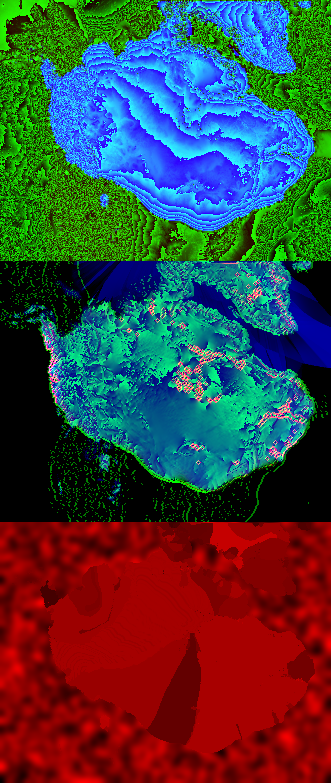
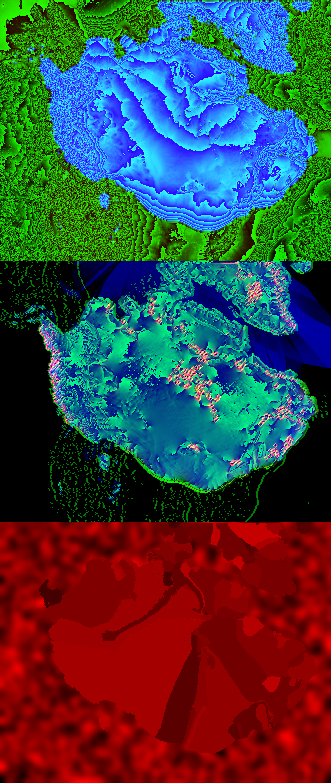
Thick glaciers: slower basal sliding, glacier threshold, fresh-run fit, mapped mode
Ice slid about 30 times too fast, which drained slopes to a film: over half of
the Lost River 'glacier' area was under 30 m thick. Sliding is now slow, and
only ice thicker than 20 m counts as glacier in the fit, the score and the
export. The fit grows the ice from nothing in every iteration, as a run does.

New option --mapped fills the mapped extent with ice instead of predicting it.
All regions refitted and rerun; demo rebuilt.

diff --git a/docs/index.html b/docs/index.html
@@ -445,7 +445,7 @@
       if (fly) map.fitBounds([r.bounds.slice(0, 2), r.bounds.slice(2)], { pitch: 60, bearing: 30, padding: 40, duration: 2500 })
       $('region-name').textContent = r.name.replace('_', ' ')
       $('details').innerHTML =
-        row('Climate', `PMIP4 LGM${r.corrected ? ', fitted to mapped ice' : ''}`) +
+        row('Climate', `PMIP4 LGM${r.mapped ? ', tied to mapped ice' : r.corrected ? ', fitted to mapped ice' : ''}`) +
         row('Ice', `${r.ice_km2.toLocaleString()} km²`) + row('Thickest', `${r.max_ice_m.toLocaleString()} m`) +
         row('Mapped (field evidence)', `${r.mapped_km2.toLocaleString()} km²`) +
         row('Overlap with mapped', `${Math.round(r.iou * 100)}%`) + row('Grid', `${r.dx / 1000} km`)

diff --git a/web/index.html b/web/index.html
@@ -445,7 +445,7 @@
       if (fly) map.fitBounds([r.bounds.slice(0, 2), r.bounds.slice(2)], { pitch: 60, bearing: 30, padding: 40, duration: 2500 })
       $('region-name').textContent = r.name.replace('_', ' ')
       $('details').innerHTML =
-        row('Climate', `PMIP4 LGM${r.corrected ? ', fitted to mapped ice' : ''}`) +
+        row('Climate', `PMIP4 LGM${r.mapped ? ', tied to mapped ice' : r.corrected ? ', fitted to mapped ice' : ''}`) +
         row('Ice', `${r.ice_km2.toLocaleString()} km²`) + row('Thickest', `${r.max_ice_m.toLocaleString()} m`) +
         row('Mapped (field evidence)', `${r.mapped_km2.toLocaleString()} km²`) +
         row('Overlap with mapped', `${Math.round(r.iou * 100)}%`) + row('Grid', `${r.dx / 1000} km`)

diff --git a/glaciers/fit.py b/glaciers/fit.py
@@ -4,7 +4,7 @@ The climate models' LGM cooling has the wrong regional shape over the Rockies (t
 ranges, too strong near the ice sheets), so mapped glacier extents are used to correct it, as in climate
 inversions from moraines. The correction lives on a 0.5-1° lon/lat grid of control points, so it can only shift
 snowlines range by range, not draw individual glaciers. Held-out ranges are left out of the fit and test it.
-Most iterations run on coarser grids (see model.levels); the last ones on the region's own grid.
+Most iterations run on coarser grids (see model.levels); the last three on the region's own grid.
 """
 
 import argparse
@@ -13,7 +13,7 @@ import time
 import numpy as np
 from scipy.ndimage import distance_transform_edt, gaussian_filter, map_coordinates
 
-from . import model, outlines
+from . import model
 from .regions import correction_path, setup
 
 HELD_OUT = {"idaho": {"Lemhi": (-113.60, -112.80, 44.00, 44.90), "Pioneer": (-114.25, -113.60, 43.50, 43.90)},
@@ -28,14 +28,13 @@ LIMITS = (-4.0, 4.0)  # about the gap between climate models and glacier-based c
 SMOOTH = 0.5      # each iteration, blend half of the field with a smoothed copy (1 control point)
 MIN_ICE = 100.0   # per degree² of spacing: km² of weighted ice before a control point responds
 EDGE = 60e3       # ice within this distance of an inflow edge comes from outside and is not fitted (m)
-SPINUP = 3000.0   # years of growth from nothing before the first iteration
-ADJUST = 375.0    # years the ice adjusts per iteration on the region's own grid (longer on coarser ones)
+FINAL = 3         # iterations on the region's own grid, where each one costs a full run
 
 
 def main():
     p = argparse.ArgumentParser(description=__doc__.split("\n")[0])
     p.add_argument("region", choices=HELD_OUT)
-    p.add_argument("--iterations", type=int, default=8, help="at most this many per grid")
+    p.add_argument("--iterations", type=int, default=8, help="at most this many per coarser grid")
     a = p.parse_args()
 
     r = setup(a.region, use_correction=False)
@@ -43,10 +42,10 @@ def main():
     radius, min_ice = RADIUS * spacing, MIN_ICE * spacing**2
     lons = np.arange(np.floor(r["lon"].min()), np.ceil(r["lon"].max()) + spacing, spacing)
     lats = np.arange(np.floor(r["lat"].min()), np.ceil(r["lat"].max()) + spacing, spacing)
-    dT, H = np.zeros((len(lats), len(lons))), None
+    dT = np.zeros((len(lats), len(lons)))
     for bed0, (T, P, z_ref), dx, edge in model.levels(r["bed0"], r["climate"], r["dx"], r["H_edge"]):
         lon, lat, X, Y = (model.resample(v, bed0.shape) for v in (r["lon"], r["lat"], *np.meshgrid(r["x"], r["y"])))
-        mapped = model.resample(outlines.rasterize(proj, r["x"], r["y"]) * 1.0, bed0.shape) > 0.5
+        mapped = model.resample(r["mapped"] * 1.0, bed0.shape) > 0.5
         box = lambda b: (lon > b[0]) & (lon < b[1]) & (lat > b[2]) & (lat < b[3])
         skip = np.zeros(bed0.shape, bool)  # cells left out of the fit: held-out ranges and edge inflow
         for b in HELD_OUT[a.region].values():
@@ -60,15 +59,13 @@ def main():
             weights.append((k, np.exp(-d2.ravel()[k] / (2 * radius**2))))
         overlap = lambda ice, where: (ice & mapped & where).sum() / max(((ice | mapped) & where).sum(), 1)
 
-        H = None if H is None else model.refine(H, coarse, bed0)
-        coarse = bed0
-        for it in range(a.iterations):
+        for it in range(a.iterations if dx > r["dx"] else FINAL):
             t0 = time.time()
             fitted = map_coordinates(dT, [(lat - lats[0]) / spacing, (lon - lons[0]) / spacing], order=1, mode="nearest")
-            # From nothing the first time; after that the ice only has to adjust, faster on coarser grids.
-            years = SPINUP if H is None else ADJUST * dx / r["dx"]
-            H, _ = model.simulate(bed0, (T + fitted, P, z_ref), dx, years, edge, H)
-            ice = H > 1
+            # Grown from nothing every time, exactly as a run does: with ice left from colder iterations the
+            # fit would describe a state that a run never reaches.
+            H, _ = model.grow(bed0, (T + fitted, P, z_ref), dx, r["years"], edge)
+            ice = H > model.GLACIER
 
             # Update each control point from the weighted model and mapped ice areas around it.
             cell, step = dx * dx / 1e6, np.zeros_like(dT)
@@ -77,10 +74,11 @@ def main():
                 if am + ao > min_ice:
                     step.flat[n] = np.clip(GAIN * np.log((am + min_ice / 2) / (ao + min_ice / 2)), -MAX_STEP, MAX_STEP)
             old, dT = dT, np.clip((1 - SMOOTH) * (dT + step) + SMOOTH * gaussian_filter(dT + step, 1.0, mode="nearest"), *LIMITS)
+            score = overlap(ice, ~skip)
             np.savez(correction_path(a.region), lons=lons, lats=lats, dT=dT)
 
             held = "".join(f", held-out {name} {overlap(ice, box(b)):.0%}" for name, b in HELD_OUT[a.region].items())
-            print(f"{dx:.0f} m grid, iteration {it + 1}: {time.time() - t0:.0f}s, fitted-area overlap {overlap(ice, ~skip):.0%}"
+            print(f"{dx:.0f} m grid, iteration {it + 1}: {time.time() - t0:.0f}s, fitted-area overlap {score:.0%}"
                   f"{held}, correction {dT.min():+.1f}..{dT.max():+.1f} K, changed by {np.abs(dT - old).max():.2f} K", flush=True)
             if np.abs(dT - old).max() < 0.1:
                 break

diff --git a/glaciers/regions.py b/glaciers/regions.py
@@ -3,9 +3,9 @@
 from pathlib import Path
 
 import numpy as np
-from scipy.ndimage import map_coordinates
+from scipy.ndimage import distance_transform_edt, map_coordinates
 
-from . import dem, export, pmip
+from . import dem, export, outlines, pmip
 
 WEB = Path(__file__).resolve().parent.parent / "web"
 
@@ -23,6 +23,10 @@ REGIONS = {
 # lowlands there.
 PARENT = {"idaho": "north_america"}
 
+MAPPED = -4.0, 20.0   # K added inside and outside the mapped ice in mapped mode: ice fills the outlines (more
+                      # cooling adds little) and none survives outside
+MARGIN = 1500.0       # inside, the cooling builds up over this distance from the outline, so snouts thin out (m)
+
 
 def correction_path(region):
     return dem.CACHE / f"correction_{region}.npz"
@@ -38,8 +42,11 @@ def correction(region, lon, lat):
     return map_coordinates(c["dT"], rc, order=1, mode="nearest")
 
 
-def setup(region, use_correction=True):
-    """Everything a run needs: grid, bedrock, LGM climate (T, P, their elevation) and edge ice."""
+def setup(region, use_correction=True, mapped=False):
+    """Everything a run needs: grid, bedrock, LGM climate (T, P, their elevation) and edge ice.
+    In mapped mode the ice is tied to the field evidence instead of predicted: it is colder inside the
+    mapped extent and nothing survives outside it, so ice fills the outlines and only its thickness and flow
+    are computed. `natural` is the climate without that, for colouring the ice (snow or bare)."""
     lon0, lat0, hw, hh, km, years = REGIONS[region]
     dx = km * 1000.0
     proj = dem.LAEA(lon0, lat0)
@@ -50,12 +57,17 @@ def setup(region, use_correction=True):
     T, P, z_ref = dem.load_climate(proj, x, y, bed0 if dx < 2000 else None)  # PRISM for fine grids
     lgm_dT, ratio = pmip.sample(lon, lat)
     fitted = correction(region, lon, lat) if use_correction else 0.0
-    climate = T + lgm_dT + fitted, P * ratio, z_ref  # present climate + LGM anomalies
+    natural = climate = T + lgm_dT + fitted, P * ratio, z_ref  # present climate + LGM anomalies
+    evidence = outlines.rasterize(proj, x, y)  # mapped LGM ice on this grid
+    if mapped:
+        inside = np.minimum(distance_transform_edt(evidence) * dx / MARGIN, 1)
+        climate = climate[0] + np.where(inside > 0, MAPPED[0] * inside, MAPPED[1]), *climate[1:]
 
     H_edge = None
     if region in PARENT:
         s, ice = export.read(WEB, PARENT[region], lon, lat)
         H_edge = np.where(ice, np.maximum(s - bed0, 0), 0)
         H_edge[:-1] = 0  # only the last row, the northern edge
-    return dict(proj=proj, x=x, y=y, dx=dx, lon=lon, lat=lat, bed0=bed0, climate=climate, H_edge=H_edge,
+    return dict(proj=proj, x=x, y=y, dx=dx, lon=lon, lat=lat, bed0=bed0, climate=climate, natural=natural, mapped=evidence,
+                H_edge=H_edge,
                 years=years, corrected=bool(np.any(fitted)))

diff --git a/glaciers/__main__.py b/glaciers/__main__.py
@@ -1,11 +1,11 @@
-"""python -m glaciers <region> [--years N]"""
+"""python -m glaciers <region> [--years N] [--mapped]"""
 
 import argparse
 import time
 
 import numpy as np
 
-from . import export, model, outlines
+from . import export, model
 from .regions import REGIONS, WEB, setup
 
 
@@ -13,23 +13,24 @@ def main():
     p = argparse.ArgumentParser(description="Compute Last Glacial Maximum glaciers.")
     p.add_argument("region", choices=REGIONS)
     p.add_argument("--years", type=float, help="simulated years (default per region)")
+    p.add_argument("--mapped", action="store_true", help="fill the mapped extent with ice instead of predicting it")
     a = p.parse_args()
 
-    r = setup(a.region)
+    r = setup(a.region, mapped=a.mapped)
     dx, x, y, bed0 = r["dx"], r["x"], r["y"], r["bed0"]
     t0 = time.time()
     print(f"{a.region}: {len(y)}x{len(x)} grid, {dx / 1000:g} km{', fitted correction' if r['corrected'] else ''}")
     H, bed = model.grow(bed0, r["climate"], dx, a.years or r["years"], r["H_edge"])
     s = np.maximum(bed + H, model.SEA_LEVEL)
     vx, vy = model.surface_velocity(H, s, dx, model.sliding(bed0, dx))
-    ice, mapped = H > 1, outlines.rasterize(r["proj"], x, y)
+    ice, mapped = H > model.GLACIER, r["mapped"]
     km2 = lambda mask: round(mask.sum() * dx * dx / 1e6)
     iou = (ice & mapped).sum() / max((ice | mapped).sum(), 1)  # agreement with field evidence
     print(f"done in {time.time() - t0:.0f}s: ice {km2(ice):,} km2, max {H.max():,.0f} m thick")
     print(f"mapped LGM ice {km2(mapped):,} km2, overlap (intersection / union) {iou:.2f}")
 
-    export.write(WEB, a.region, r["proj"], x, y, dx, bed0, H, vx, vy, model.mass_balance(s, *r["climate"]),
-                 {"corrected": r["corrected"], "ice_km2": km2(ice), "max_ice_m": round(float(H.max())),
+    export.write(WEB, a.region, r["proj"], x, y, dx, bed0, H, vx, vy, model.mass_balance(s, *r["natural"]),
+                 {"corrected": r["corrected"], "mapped": a.mapped, "ice_km2": km2(ice), "max_ice_m": round(float(H.max())),
                   "mapped_km2": km2(mapped), "iou": round(float(iou), 2)})
     print(f"wrote {WEB / 'data' / a.region}.png\nview:  python -m http.server -d web  then open http://localhost:8000")
 

diff --git a/glaciers/export.py b/glaciers/export.py
@@ -8,6 +8,7 @@ from PIL import Image
 from scipy.ndimage import distance_transform_edt, gaussian_filter, map_coordinates
 
 from .dem import LAEA
+from .model import GLACIER
 
 CREVASSE_STRAIN = 0.02  # 1/yr: tensile strain rate at which crevasses are fully developed
 
@@ -28,7 +29,7 @@ def flow_lines(vx, vy):
 
 def write(web: Path, name, proj, x, y, dx, bed0, H, vx, vy, M, stats):
     """One PNG of three bands stacked north to south, each the size of the grid:
-    1. R,G = ice surface + 10000 (m, 16-bit), B = ice thickness (m, capped at 255)
+    1. R,G = ice surface + 10000 (m, 16-bit), B = glacier thickness (m, capped at 255; 0 under GLACIER)
     2. R = crevassing (largest tensile strain rate), G = direction of that stretching (0-255 for 0-180°,
        east = 0, anticlockwise; crevasses open across it), B = 128 + 25 × mass balance (m/yr): above 128 is
        snow-covered accumulation area, below is bare ice
@@ -38,7 +39,7 @@ def write(web: Path, name, proj, x, y, dx, bed0, H, vx, vy, M, stats):
     directly with present-day elevation tiles. Thick ice is drawn up to that surface, flat across a valley;
     thin ice is draped over the fine terrain at the model's thickness.
     """
-    ice = H > 1
+    ice = H > GLACIER
     dist, near = distance_transform_edt(~ice, return_indices=True)
     # Just outside the ice (valley walls), carry the nearest ice surface rather than the rock, so the
     # browser's interpolated surface stays flat until it meets the walls instead of ramping up them.

diff --git a/glaciers/model.py b/glaciers/model.py
@@ -16,10 +16,11 @@ SIGMA = 3.0        # daily temperature variability around the monthly mean (K)
 DDF_SNOW, DDF_ICE = 0.003, 0.008  # melt per positive degree-day (m water / K / day)
 REFREEZE = 0.6     # fraction of snowmelt that refreezes in the snowpack
 SEA_LEVEL = -120.0 # LGM sea level (m)
+GLACIER = 20.0     # thinner ice is a film on slopes above the snowline (perennial snow), not a glacier (m)
 MAX_WATER = 500.0  # ice calves rather than grounds in deeper water (m)
 TAU_ISO = 3000.0   # bed relaxation time (yr)
-SLIDE = 3e-3       # basal sliding: velocity per basal shear stress (m / yr / Pa)
-SOFT_BED = 5.0     # sliding enhancement on smooth lowland (sediment) beds
+SLIDE = 1e-4       # basal sliding: velocity per basal shear stress (m / yr / Pa); faster sliding leaves only a film of ice on slopes
+SOFT_BED = 150.0   # sliding enhancement on smooth lowland (sediment) beds
 STEP_SPEED = 80.0  # time step = grid spacing / this (m/yr): results stop changing below it
 MAX_STEP = 25.0    # yr
 ADJUST = 1 / 6     # share of a run's years spent adjusting on the full grid (twice that on the 2x coarser one)

diff --git a/README.md b/README.md
@@ -12,8 +12,8 @@ no account needed)
 uv venv && uv pip install -e .                  # numpy, scipy, pillow, h5py
 python -m glaciers.outlines                     # mapped LGM extent: scores every run, and the viewer's overlay
 python -m glaciers north_america                # ~5 min: the ice sheets, which supply the ice entering Idaho
-python -m glaciers.fit idaho                    # ~40 min: fits Idaho's climate correction to the mapped ice
-python -m glaciers idaho                        # ~20 min: 500 m grid
+python -m glaciers.fit idaho                    # ~2 h: fits Idaho's climate correction to the mapped ice
+python -m glaciers idaho                        # ~35 min: 500 m grid
 cp web/config.example.js web/config.js          # optional: a Mapbox token (Mapbox imagery, terrain, names)
 python -m http.server -d web                    # open http://localhost:8000
 ```
@@ -21,8 +21,9 @@ python -m http.server -d web                    # open http://localhost:8000
 The single ranges run on 200 m grids, each with its own fit (`lost_river`, `sawtooth`, `wind_river`):
 
 ```bash
-python -m glaciers.fit sawtooth                 # ~5 min
-python -m glaciers sawtooth                     # ~1.5 min
+python -m glaciers.fit sawtooth                 # ~15 min
+python -m glaciers sawtooth                     # ~2 min
+python -m glaciers sawtooth --mapped            # instead: fill the mapped extent with ice (see below)
 python -m glaciers.demo                         # standalone demo in docs/ (free map sources, GitHub Pages)
 ```
 
@@ -48,7 +49,8 @@ and cache about 400 MB in `data/`.
    computed ice surface with a lapse rate.
 3. **Mass balance** (`glaciers/model.py`): a positive-degree-day model computes snowfall minus melt, with
    60% of snowmelt refreezing.
-4. **Ice flow** (`glaciers/model.py`): a shallow-ice model (Glen's flow law plus basal sliding). Each time
+4. **Ice flow** (`glaciers/model.py`): a shallow-ice model (Glen's flow law plus slow basal sliding; with
+   fast sliding, ice drains off slopes and leaves only a film). Each time
    step is one Newton step of the fully implicit equation, so both parts of the flow (diffusion of the
    surface, and thickness waves travelling with the ice) are implicit. The time step is the grid spacing
    ÷ 80 m/yr, below which results stop changing (2.5 years on a 200 m grid). Ice first settles on grids
@@ -57,8 +59,10 @@ and cache about 400 MB in `data/`.
 5. **Climate correction** (`glaciers/fit.py`): the climate models' LGM cooling has the wrong regional shape
    over the Rockies: about −6.5 °C in central Idaho, where glacier modelling implies −8.5 to −10 °C, and
    too cold near the ice sheets. So a smooth temperature correction on a 0.5-1° grid is fitted to the mapped
-   ice, like climate inversions from moraines. One range per region is held out of the fit to test it. The
-   ice is therefore a reconstruction constrained by field evidence, not a pure prediction.
+   ice, like climate inversions from moraines. Every iteration grows the ice from nothing, as a run does.
+   Only ice thicker than 20 m counts as glacier; thinner ice is a film on slopes above the snowline. One
+   range per region is held out of the fit to test it. The ice is therefore a reconstruction constrained
+   by field evidence, not a pure prediction.
 6. **Export** (`glaciers/export.py`): one small PNG per region with the ice surface, thickness, mass balance,
    crevassing and flow lines (`web/data/<region>.png` plus `.json`).
 7. **Viewer** (`web/index.html`, MapLibre): for each map tile, web workers take present-day terrain (~10 m
@@ -77,24 +81,27 @@ and cache about 400 MB in `data/`.
 
 | Region | Grid | Computed ice | Mapped ice | Overlap | Held-out range |
 |---|---|---|---|---|---|
-| North America (no correction) | 20 km | 16.4M km² | 18.6M km² | 84% | – |
-| Idaho | 500 m | 138,000 km² | 147,000 km² | 56% | Lemhi Range 31%, Pioneer Mountains 61% |
-| Sawtooth Range | 200 m | 4,900 km² | 5,300 km² | 64% | White Clouds 73% |
-| Lost River Range | 200 m | 3,200 km² | 4,000 km² | 48% | Pioneer Mountains 63% |
-| Wind River Range | 200 m | 9,600 km² | 9,800 km² | 73% | East-side valleys 48% |
+| North America (no correction) | 20 km | 16.7M km² | 18.6M km² | 84% | – |
+| Idaho | 500 m | 165,000 km² | 147,000 km² | 61% | Lemhi Range 28%, Pioneer Mountains 64% |
+| Sawtooth Range | 200 m | 3,800 km² | 5,300 km² | 60% | White Clouds 68% |
+| Lost River Range | 200 m | 3,400 km² | 4,000 km² | 47% | Pioneer Mountains 68% |
+| Wind River Range | 200 m | 10,100 km² | 9,800 km² | 71% | East-side valleys 46% |
 
 For comparison, a published model of the Alps at the LGM reaches about 72% at best, and automated
 reconstructions average about 48%.
 
-- Idaho's overlap is 65% north of 47°N, where the ice-sheet lobes are, and 41% in the mountain ranges to
+- Idaho's overlap is 73% north of 47°N, where the ice-sheet lobes are, and 42% in the mountain ranges to
   the south; the 200 m runs of single ranges do better there.
 - The overlap is partly a fit: the correction was chosen using the mapped outlines. The held-out ranges
   are the independent test.
-- In the Lost River Range the ice sits too high: too much above about 2,600 m and too little below
-  2,200 m, so the longest valley glaciers stop short of their mapped moraines. Changing the melt factors
-  does not fix this, which points to the precipitation pattern.
-- Ice thickness is not constrained by the mapped outlines. Where the fit glaciates a basin (the Sawtooth
-  Valley), the ice there is probably too thick.
+- Ice thickness is not constrained by the mapped outlines. The outlines show an icefield over most of the
+  Sawtooth area, and the model can only cover Stanley Basin with a dome over 1 km thick that buries most
+  of the range. Either the outlines are generous there or the model's ice is too stiff.
+- Where a basin is close to filling with ice the result is sensitive: in the Sawtooths a few tenths of a
+  degree, or 10,000 years instead of 3,000, turn valley glaciers into an ice cap over the whole area.
+- **Mapped mode** (`--mapped`) gives up on prediction: ice is 4 °C colder inside the mapped extent and
+  cannot survive outside it, so it fills the outlines (87-95% overlap for the three ranges) and only its
+  thickness and flow are computed. It is thicker still, for the same reason.
 - The ice-sheet climate is partly circular: the PMIP4 models were run with prescribed LGM ice sheets.
 - Earlier versions of this model held the thickness-wave part of the flow fixed during each time step.
   That is unstable at practical time steps and created ice (in the Sawtooths at 200 m, nearly twice the
